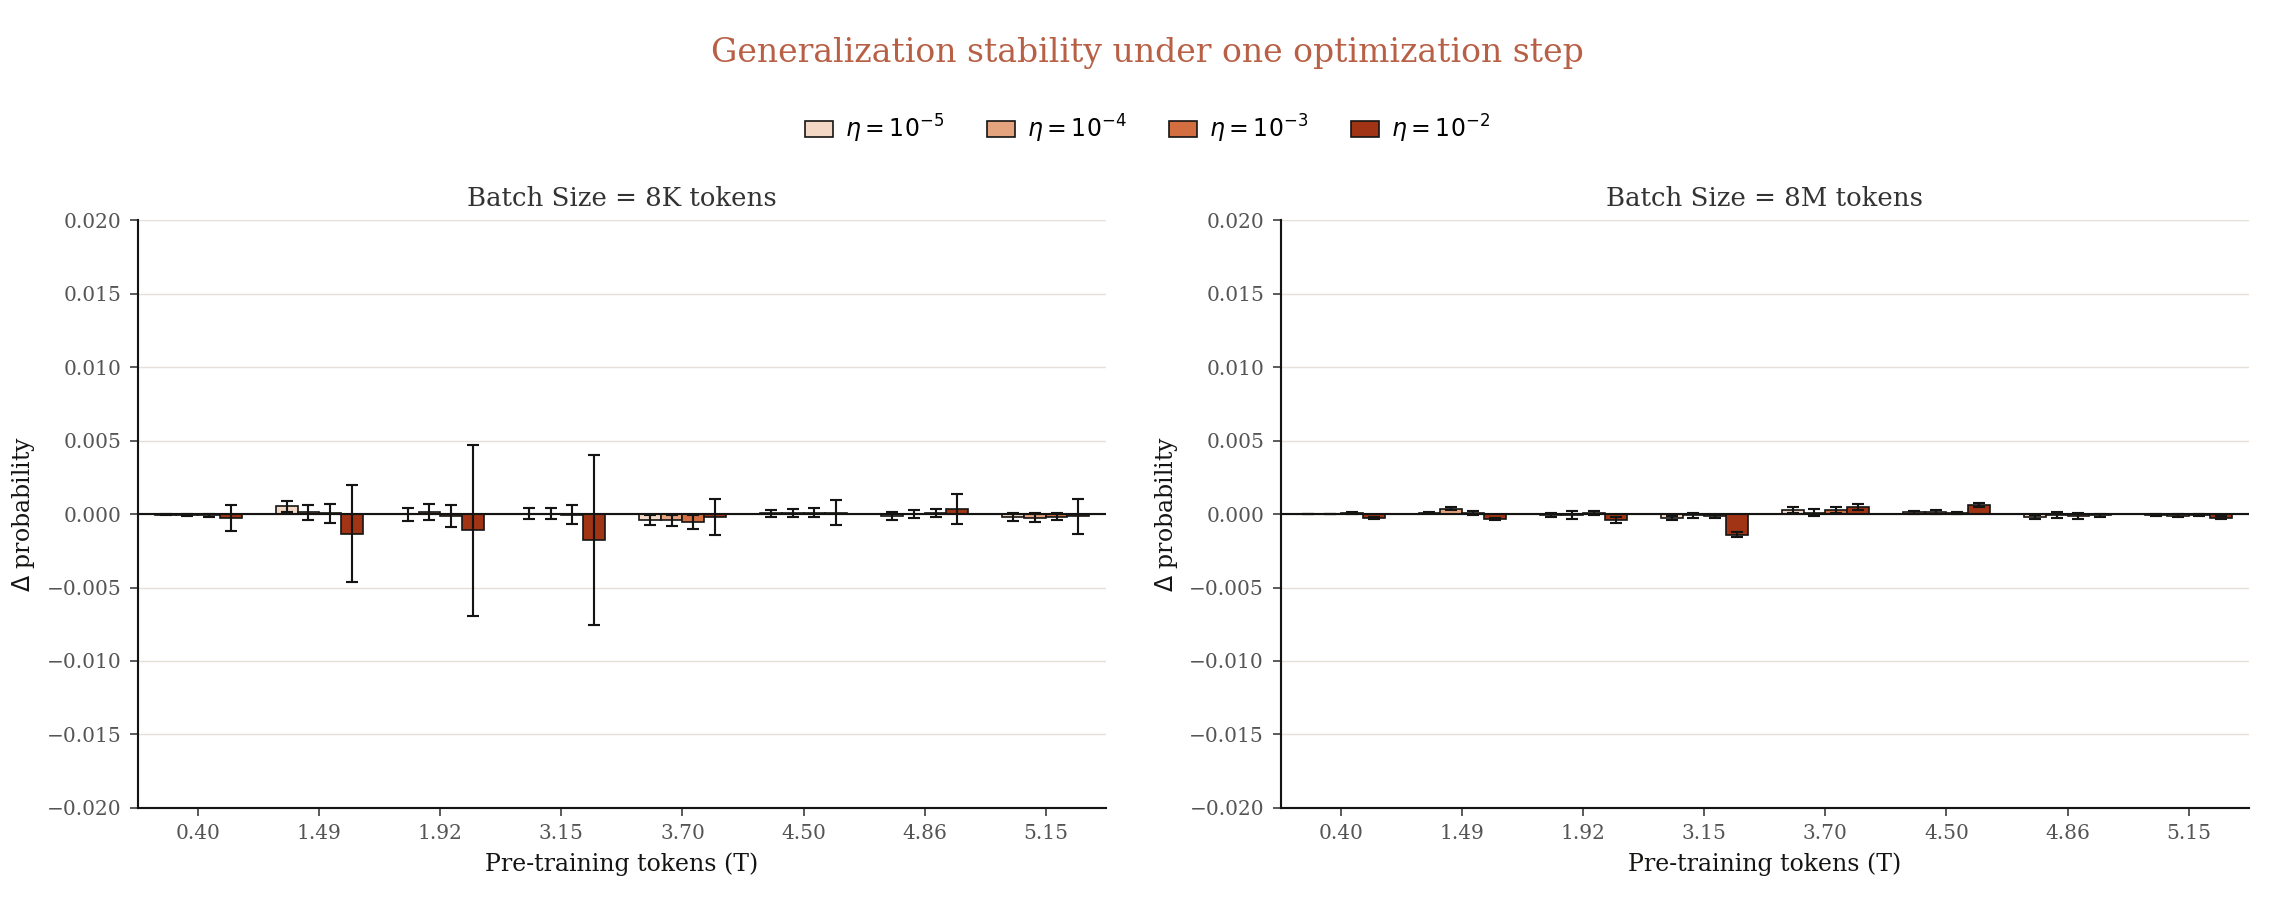
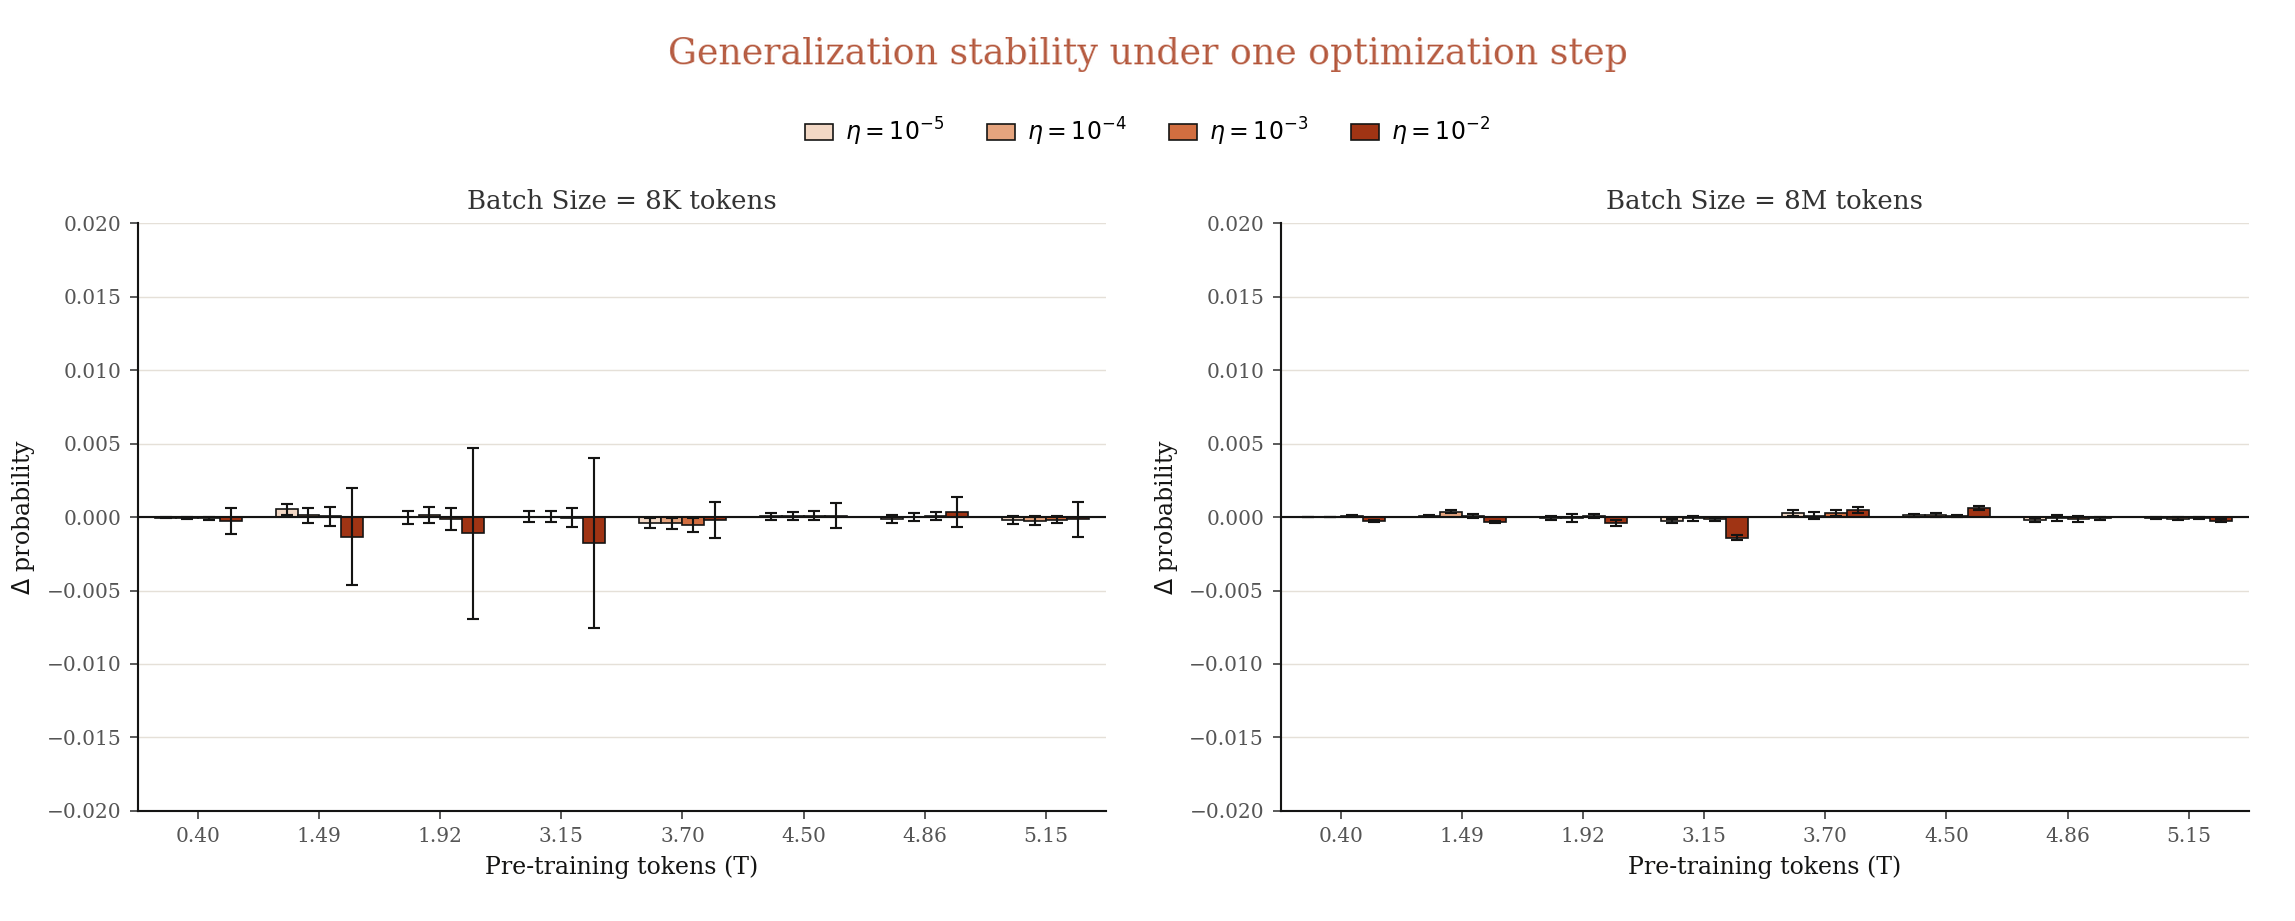
Figure 10: enlarge figure 1.2x and title font another 1.1x

diff --git a/blog/generalization-dynamics.html b/blog/generalization-dynamics.html
@@ -788,7 +788,7 @@ x = <span class="num">-46</span>
         <p>To rule out this null hypothesis, we first test the local stability of generalization: whether a single optimization step on a randomly sampled pre-training document would change the checkpoint's probabilities on our suite. For each checkpoint, we sample 100 random documents to optimize at each learning rate, then report the average probability change and variance. As shown in <a class="ref-link" href="#fig-10">Figure&nbsp;10</a>, generalization is locally stable: the probability change is negligible even at a large learning rate like 1e-2.</p>
       </div>
 
-      <figure id="fig-10">
+      <figure id="fig-10" style="max-width: 768px;">
                 <div class="fig-card"><img src="figures/img/onestep_gd_combined.png"></div>
         <figcaption><span class="fig-label">Figure 10.</span> Generalization is locally stable. We continue pre-train OLMo3 32B intermediate checkpoint for a single step using a randomly sampled pre-training document. We then measure the probability change on our evals compared to the original checkpoint, which are negligible.</figcaption>
       </figure>